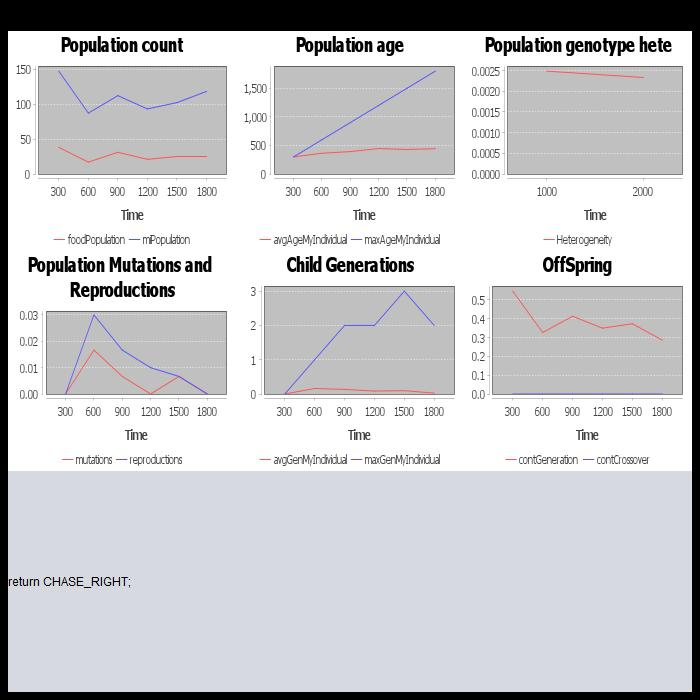
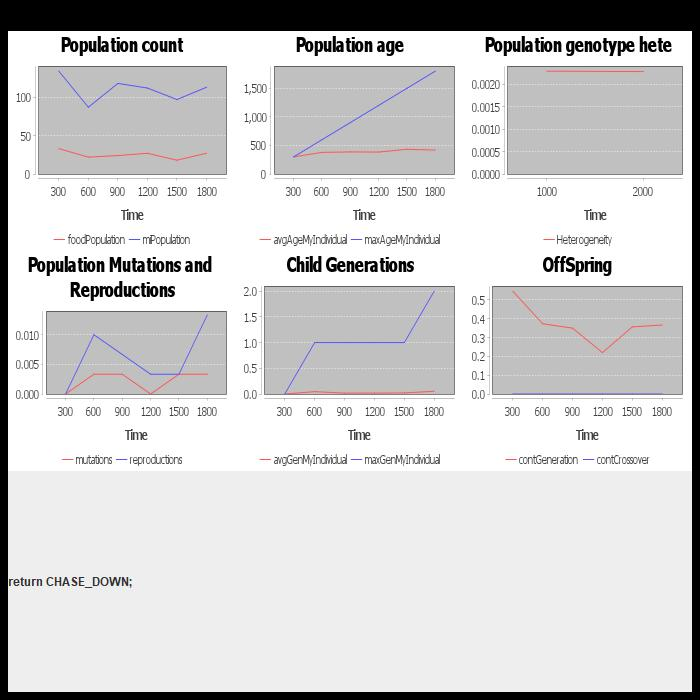
checkpoint before generics

diff --git a/EvoSimulation/src/main/java/simulator/RandomSingleton.java b/EvoSimulation/src/main/java/simulator/RandomSingleton.java
@@ -9,6 +9,9 @@ public class RandomSingleton {
     private RandomSingleton() {
     	_rnd = new Random(98);
     }
+    private RandomSingleton(long s) {
+    	_rnd = new Random(s);
+    }
 
     public static RandomSingleton getInstance() {
         if(instance == null) {
@@ -26,4 +29,7 @@ public class RandomSingleton {
     public static double nextFloat() {
         return getInstance()._rnd.nextFloat();
    }
+    public static void setSeed(long s) {
+    	instance = new RandomSingleton(s);
+    }
 }

diff --git a/EvoSimulation/src/main/java/simulator/view/viewer/Viewer3D.java b/EvoSimulation/src/main/java/simulator/view/viewer/Viewer3D.java
@@ -176,7 +176,7 @@ public class Viewer3D extends AbstractViewer{
 	 * Render the 3d image
 	 */
 	public void updateImage() {
-		System.out.println(this.mesh.triangles.size()+" triangles");
+		//System.out.println(this.mesh.triangles.size()+" triangles");
 		//System.out.println("look: "+lookDir);
 		//System.out.println("camera: "+camera);
 		//rescale the image otherwise will be too big

diff --git a/EvoSimulation/src/main/java/grammar/AbstractGrammar.java b/EvoSimulation/src/main/java/grammar/AbstractGrammar.java
@@ -320,7 +320,9 @@ public abstract class AbstractGrammar {
 		//System.out.println("Quitting "+query._symbol+" method");
 		return b;
 	}
-	
+	public HashMap<Symbol,Rule> getRules(){
+		return this._rulesProductions;
+	}
 	public static void main(String args[]) {
 		AbstractGrammar g = new Grammar();
 		g.parseBNF("test");

diff --git a/EvoSimulation/src/main/java/simulator/model/entity/Entity.java b/EvoSimulation/src/main/java/simulator/model/entity/Entity.java
@@ -116,7 +116,6 @@ public abstract class Entity implements IInteract{
 	protected void updateImage() {
 		this.currentImgState = this.imgController.getNextImage(this.getClass(), currentImgState, currentstate);
 		this.img = currentImgState.execute();
-		
 	}
 	@Override
 	public String toString() {
